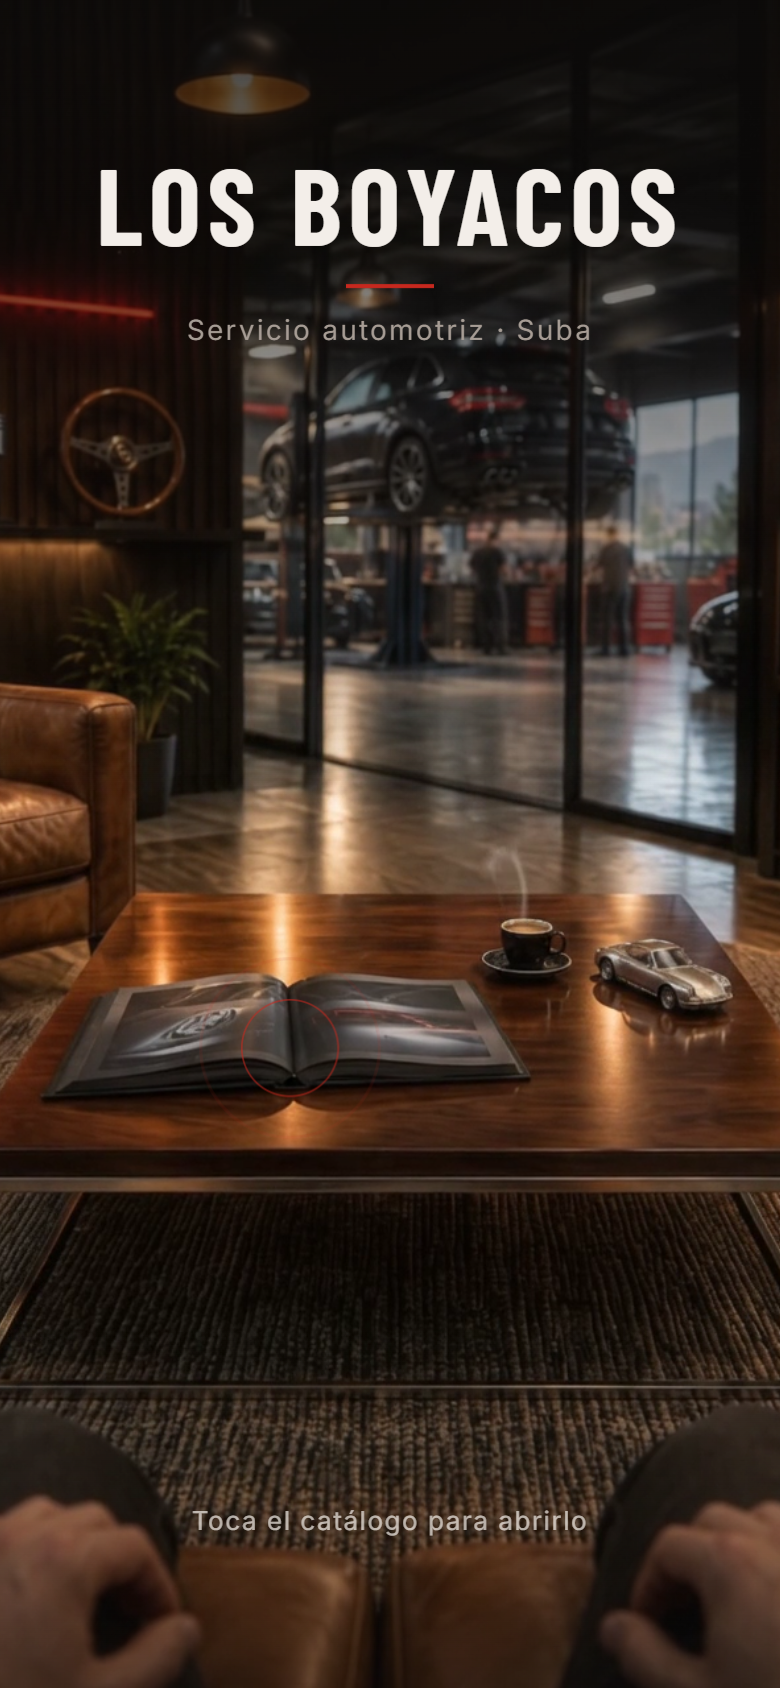
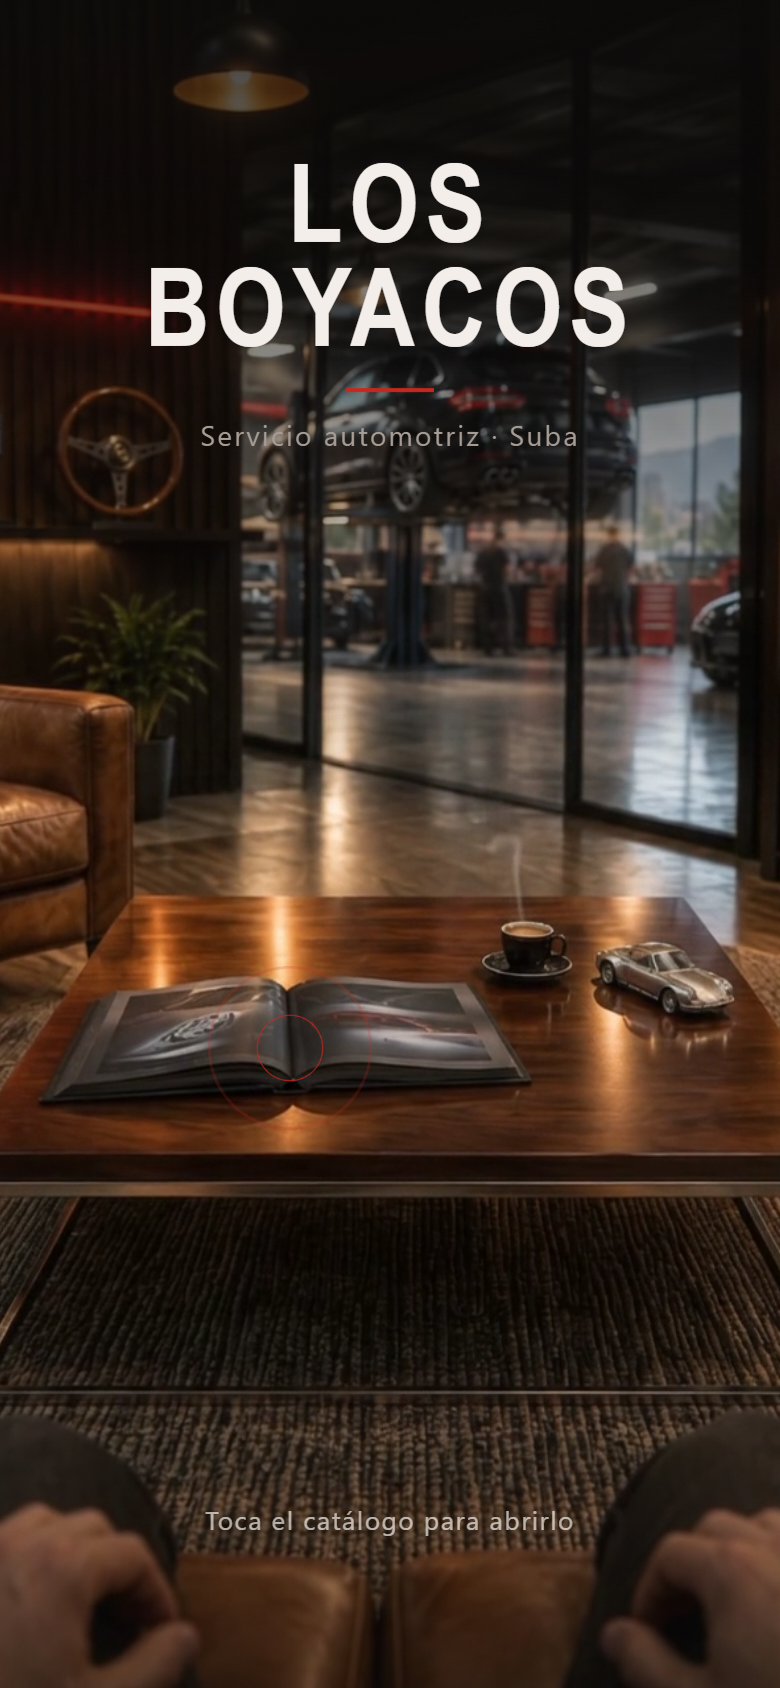
El video corre siempre al cargar (sin botón Ver video) y al tocar el catálogo se reproduce el clip de levantarlo; fuentes sin bloquear el arranque

diff --git a/index.html b/index.html
@@ -56,7 +56,9 @@
 
 <link rel="preconnect" href="https://fonts.googleapis.com">
 <link rel="preconnect" href="https://fonts.gstatic.com" crossorigin>
-<link rel="stylesheet" href="https://fonts.googleapis.com/css2?family=Barlow+Condensed:wght@600;700&family=Inter:wght@400;500;600&display=swap">
+<!-- Fuentes sin bloquear el arranque: si Google tarda, la página y el video cargan igual con la tipografía de respaldo -->
+<link rel="preload" as="style" href="https://fonts.googleapis.com/css2?family=Barlow+Condensed:wght@600;700&family=Inter:wght@400;500;600&display=swap" onload="this.onload=null;this.rel='stylesheet'">
+<noscript><link rel="stylesheet" href="https://fonts.googleapis.com/css2?family=Barlow+Condensed:wght@600;700&family=Inter:wght@400;500;600&display=swap"></noscript>
 
 <style>
 :root{
@@ -716,7 +718,9 @@ document.addEventListener('keydown',function(e){
 });
 
 /* ---------- vídeo ---------- */
-var staticMode = reduced || lowData;
+// El video corre siempre al cargar (decisión del cliente): no se desactiva por 'reducir animaciones' ni ahorro de datos.
+// Solo cae a póster + hoja de tarjetas si el video falla (ver fallbackStatic).
+var staticMode = false;
 var loopStarted=false, introStarted=false;
 
 function showInvite(immediate){
